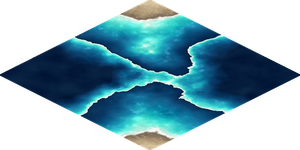
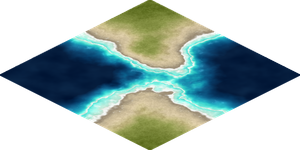
Give the coast a beach that ends, and notice when the last unit dies
The coast tile still read as a broad flat cream band because the whole land side
of it was sand. Half of a marching-squares diamond sits landward of the
shoreline, so trimming that back only moved the band; it could not make it
narrow. The land end of the ramp now runs sand, then dune growth, then the
grassland tile's own colour, so the beach is the strip it should be and the tile
carries on into its neighbour rather than stopping at a hard cream edge. With
the ramp doing that work the shoreline barely needs pushing, so the trim drops
from 74 world pixels to 16 and the sand keeps the grain and the wet, darker
waterline that the stretched version had washed out.

Separately: barbarians running down the last settler did not end the game. A
unit killed in combat is marked dead and taken off the map, but it stays in its
owner's unit list - only disbanding removes it - and the elimination check
counted the list. Any civilisation that had ever built a unit was therefore
immortal. It counts living units now.

Claude-Session: https://claude.ai/code/session_01QXFvyyXDZLnfAxgXhrWa4A

Changed region(s): [[0.24, 0.0, 0.75, 0.5067], [0.27, 0.5333, 0.75, 1.0]]

diff --git a/scripts/generate_coastline_iso.py b/scripts/generate_coastline_iso.py
@@ -74,14 +74,21 @@ G_speck  = grid(300)
 G_shell  = grid(150)
 
 # ---------------- colour ramp -------------------------------------------------
+# Signed distance to the waterline, in world pixels, to colour. Landward of the
+# shoreline the tile used to be sand all the way out, which is why an ocean tile
+# touching land showed a broad flat cream band: half the diamond sits on the land
+# side of a marching-squares shoreline, and all of it was beach. A real shore is a
+# narrow strip that gives way to whatever grows behind it, so the land end now
+# runs sand, then dune growth, then the grassland tile's own colour, and the
+# coast tile carries on into its neighbour instead of stopping at a hard edge.
 STOPS = [
     (-420, (  5,  28,  60)), (-150, (  5,  28,  60)), (-130, (  7,  44,  82)),
     (-108, ( 10,  66, 110)), ( -84, ( 14,  94, 138)), ( -64, ( 19, 126, 164)),
     ( -48, ( 26, 160, 184)), ( -36, ( 42, 192, 196)), ( -26, ( 66, 214, 206)),
     ( -18, (100, 228, 214)), ( -11, (140, 236, 220)), (  -5, (176, 226, 205)),
-    (  -1, (166, 146, 116)), (   4, (146, 124,  96)), (  13, (178, 154, 122)),
-    (  32, (210, 190, 154)), (  72, (233, 219, 187)), ( 150, (245, 234, 208)),
-    ( 420, (245, 234, 208)),
+    (  -1, (150, 132, 104)), (   3, (176, 156, 124)), (  10, (214, 196, 160)),
+    (  22, (222, 206, 170)), (  34, (196, 186, 132)), (  48, (140, 150,  74)),
+    (  70, ( 96, 112,  34)), ( 150, ( 81,  99,  19)), ( 420, ( 81,  99,  19)),
 ]
 _ds = np.array([s[0] for s in STOPS], float)
 _cs = np.array([s[1] for s in STOPS], float)
@@ -116,12 +123,12 @@ AMP = 0.115
 
 # How the painted coast is pulled in towards the land. The sea reaches full depth
 # at 150 / SHELF_REACH world pixels, so a smaller number is a narrower shelf.
-# BEACH_TRIM is how far the sand is pushed back towards the land in world pixels,
-# and LAND_REACH stretches what is left so the beach still fades into the shore
-# rather than stopping dead.
-SHELF_REACH = 0.34
-BEACH_TRIM = 74.0
-LAND_REACH = 0.55
+# BEACH_TRIM is how far the shoreline is pushed back towards the land in world
+# pixels. LAND_REACH scales what is left; at 1.0 the land side keeps the spacing
+# the ramp's sand and grass stops were written for.
+SHELF_REACH = 0.32
+BEACH_TRIM = 16.0
+LAND_REACH = 1.0
 
 def build(N, E, Sc, Wc):
     """Corners in world order TL,TR,BR,BL == screen N,E,S,W."""

diff --git a/Engine/src/Game.Actions.cs b/Engine/src/Game.Actions.cs
@@ -124,7 +124,13 @@ namespace Civ2engine
                 return;
             }
 
-            if (civ.Cities.Count > 0 || civ.Units.Count > 0)
+            // Only a living unit counts. A unit killed in combat is marked dead and
+            // taken off the map, but it is left in its owner's unit list - only
+            // disbanding removes it - so counting the list meant a civilisation that
+            // had ever built anything could never be eliminated. Barbarians running
+            // down the last settler ended the game in every sense except the one the
+            // player sees.
+            if (civ.Cities.Count > 0 || civ.Units.Any(unit => !unit.Dead))
             {
                 return;
             }
